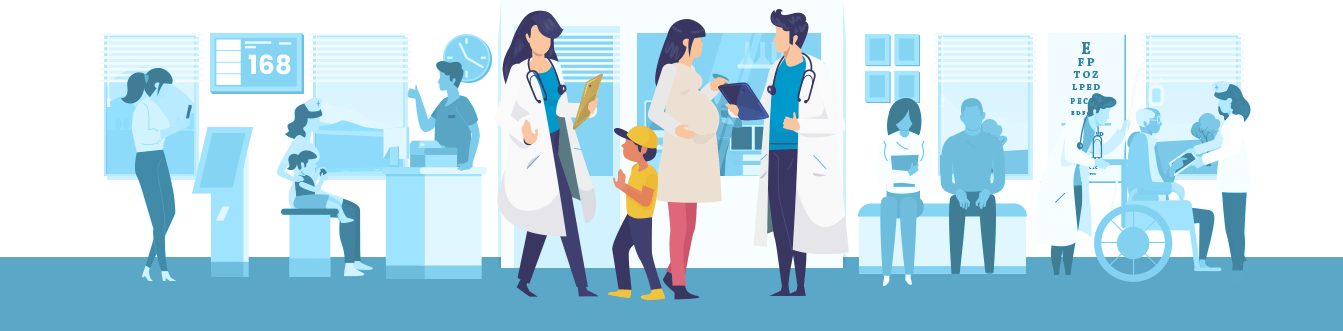
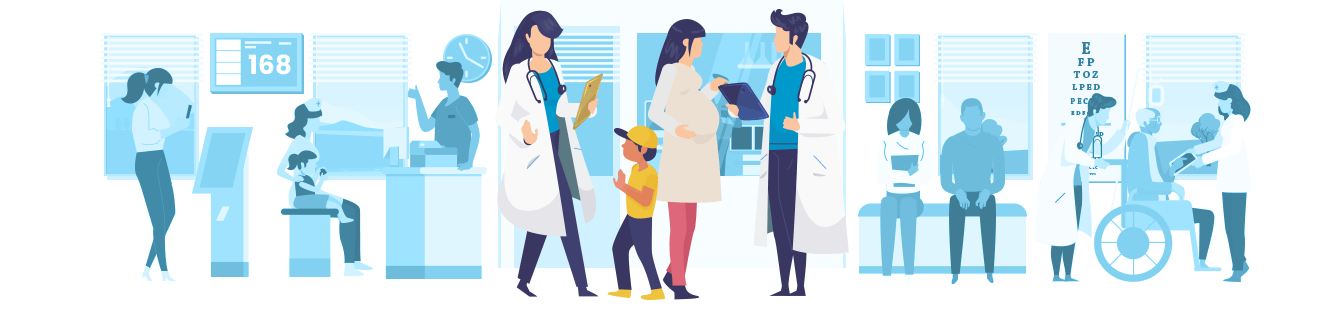
refactor: relace home second usp image
Resolves #222

Changed region(s): [[0.0, 0.7553, 1.0, 1.0]]

diff --git a/components/commons/usp.vue b/components/commons/usp.vue
@@ -29,7 +29,7 @@
           @load="loadedImage"
         ).justify-center
         div(v-show="!isImageLoaded").white.empty-image-container
-    div.offset-container(v-show="isImageLoaded && !isMobile")
+    div.offset-container(v-show="isImageLoaded && !isMobile && !noOffset")
 </template>
 
 <script>
@@ -78,6 +78,10 @@ export default {
     customPath: {
       type: String,
       default: '',
+    },
+    noOffset: {
+      type: Boolean,
+      default: false,
     },
   },
   data () {

diff --git a/components/home/usp/index.vue b/components/home/usp/index.vue
@@ -8,6 +8,7 @@
       :btnText="uspContents.btnText"
       :coverImg="uspContents.coverImg"
       @btnClick="getStarted"
+      no-offset
     )
 </template>
 
